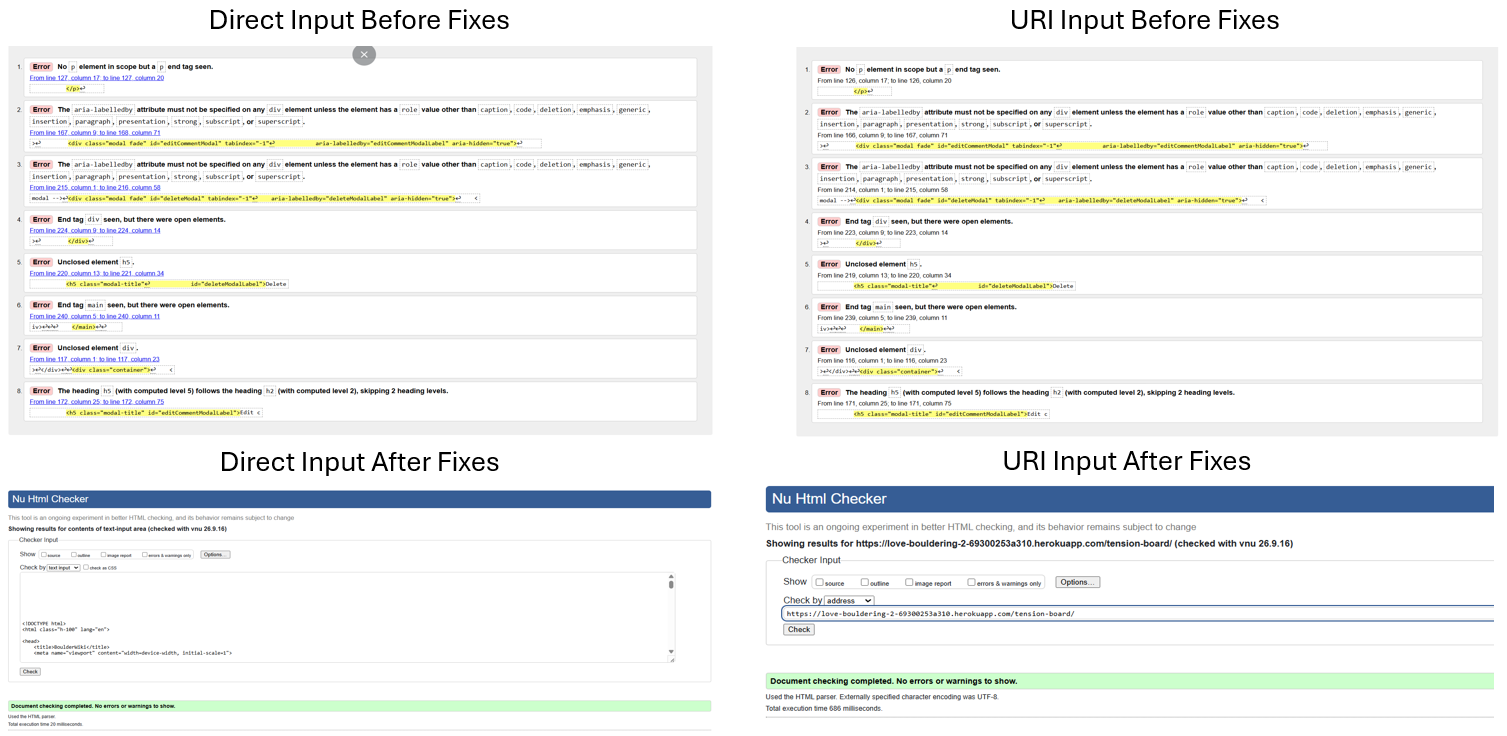
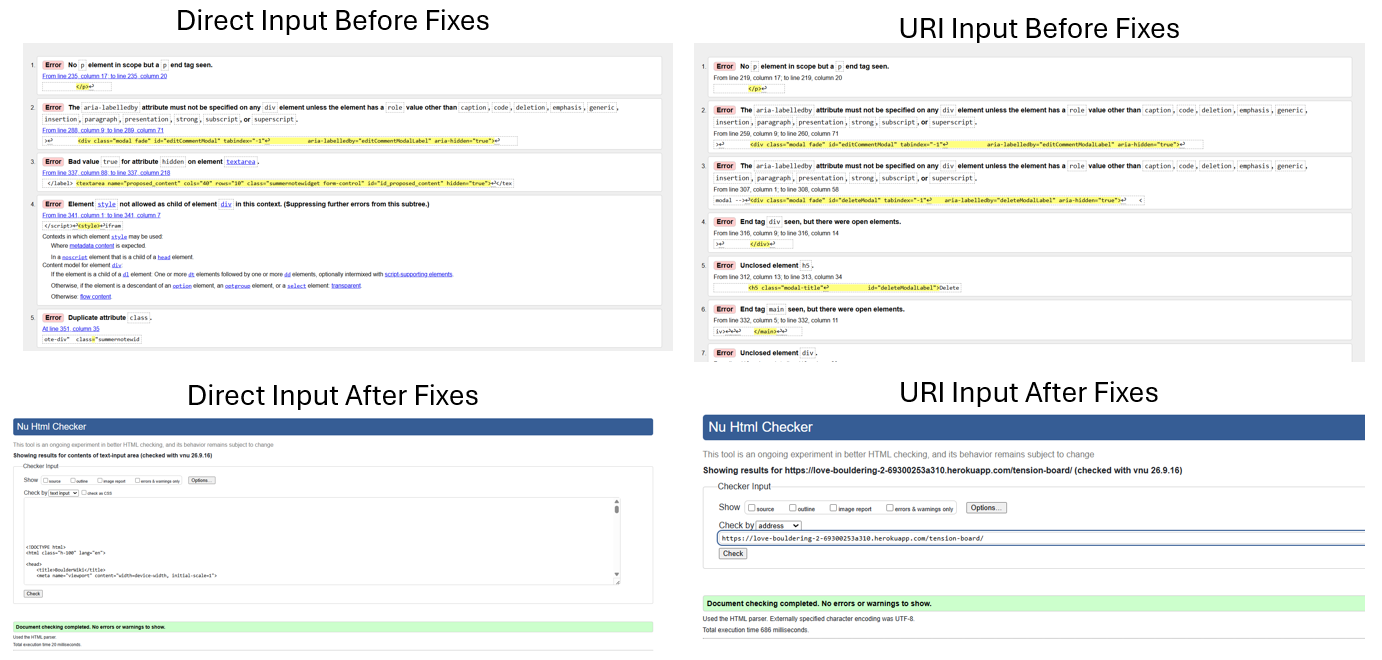
Remove bold tags in signup.html

Changed region(s): [[0.0, 0.0909, 0.9957, 1.0], [0.1245, 0.0, 0.3423, 0.0909], [0.6534, 0.0, 0.8712, 0.0606]]

diff --git a/templates/account/signup.html b/templates/account/signup.html
@@ -54,7 +54,7 @@
               <li>Use at least 8 characters.</li>
               <li>Use letters and other characters; the password cannot be entirely numeric.</li>
               <li>Numbers are allowed but are not required.</li>
-              <li>Special characters such as <bold>$</bold>, <bold>@</bold>, <bold>!</bold>, <bold>#</bold>, <bold>%</bold>, <bold>&</bold>, are allowed but are not required.</li>
+              <li>Special characters such as $, %, !, and @ are allowed but are not required.</li>
             </ul>
           </div>
           {{ form.password1.errors }}

diff --git a/TESTING.md b/TESTING.md
@@ -204,3 +204,104 @@ The following code was implemented in ```templates\account\signup.html``` to ach
 
 Some JavaScript and other code was also added. The exact implementation details can be found by looking at the commit history of this project. 
 
+### Article Details Page
+
+![Article Details Page Validation](/documentation/testing/html-css-js-validation/html-validation/article-details.png)
+
+The errors in the image above were fixed by replacing the SummernoteWidget() with HTML5SummernoteWidget() in the SuggestionForm class in article/forms.py. The exact implementation details of these changes can be found by looking at the commit history of this project. 
+
+## CSS3 Validation
+
+The CSS3 files for the deployed website were tested using the [W3C CSS Validator](https://jigsaw.w3.org/css-validator/)
+
+### ```style.css```
+
+![style.css validation](/documentation/testing/html-css-js-validation/css-validation/style.png)
+
+The validator returned two warnings before implementing the fixes. These warnings were resolved by removing the two vendor extension styles. 
+
+### ```adming_comments.css```
+
+![adming_comments.css validation](/documentation/testing/html-css-js-validation/css-validation/admin-comments.png)
+
+The validator returned two warnings before implementing the fixes. These warnings were resolved by removing the two deprecated styles. 
+
+## JavaScript Validation
+
+The JavaScript files for the deployed website were tested using [JSHint](https://jshint.com/)
+
+For validation purposes:
+
+ - ```/* jshint esversion: 11 */``` was added to line in all JavaScript files
+
+ - ```/* global bootstrap */``` was added to line 2 of JavaScript files containing Bootstrap components
+
+ No errors were found during validation testing.
+
+### admin_comments.js
+
+![admin_comments.js validation](/documentation/testing/html-css-js-validation/js-validation/admin_comments.png)
+
+### admin_posts.js
+
+![admin_posts.js validation](/documentation/testing/html-css-js-validation/js-validation/admin_posts.png)
+
+### comments.js
+
+![comments.js validation](/documentation/testing/html-css-js-validation/js-validation/comments.png)
+
+### my_posts.js
+
+![my_posts.js validation](/documentation/testing/html-css-js-validation/js-validation/my_posts.png)
+
+## Python Validation Testing 
+
+
+
+## Responsiveness Testing
+
+BoulderWiki was manually tested for responsiveness on all relevant device viewports using the Chrome dev tools. The viewports that were tested were: laptops and larger devices, tablets and mobiles. 
+
+I've tested my deployed project to check for responsiveness issues and tested all pages that a user would visit.
+
+On laptops and larger devices, the homepage adopts a three-column layout, while on tablets (in portrait mode) and mobiles the homepage adopts a single column layout. The single column layout makes the homepage easier to read on narrower screens. 
+
+The screenshots for mobile were taken on my phone - a Samsung Galaxy S22 - this would be approximately 350 x 750 in the Chrome dev tools
+
+The following viewport dimensions have been chosen for each device:
+
+- Laptop - 1440 x 830
+- Tablet - 750 x 830 
+- Mobile - Samsung Galaxy S22
+
+| Page | Mobile | Tablet | Laptops | Result |
+| --- | --- | --- | --- | --- |
+| Homepage | ![screenshot](/documentation/testing/responsiveness/mobile/homepage.jpg) | ![screenshot](/documentation/testing/responsiveness/tablets//homepage.png) | ![screenshot](/documentation/testing/responsiveness/laptops/homepage.png) | Works as expected |
+| About  | ![screenshot](/documentation/testing/responsiveness/mobile/about.jpg) | ![screenshot](/documentation/testing/responsiveness/tablets/about.png) | ![screenshot](/documentation/testing/responsiveness/laptops/about.png) | Works as expected |
+| Create Article | ![screenshot](/documentation/testing/responsiveness/mobile/create-article.jpg) | ![screenshot](/documentation/testing/responsiveness/tablets/create-article.png) | ![screenshot](/documentation/testing/responsiveness/laptops/create-article.png) | Works as expected |
+| Manage Articles  | ![screenshot](/documentation/testing/responsiveness/mobile/manage-articles.jpg) | ![screenshot](/documentation/testing/responsiveness/tablets/manage-articles.png) | ![screenshot](/documentation/testing/responsiveness/laptops/manage-articles.png) | Works as expected |
+| Categories | ![screenshot](/documentation/testing/responsiveness/mobile/categories.jpg) | ![screenshot](/documentation/testing/responsiveness/tablets/categories.png) | ![screenshot](/documentation/testing/responsiveness/laptops/categories.png) | Works as expected |
+| Suggestions | ![screenshot](/documentation/testing/responsiveness/mobile/suggestions.jpg) | ![screenshot](/documentation/testing/responsiveness/tablets/suggestions.png) | ![screenshot](/documentation/testing/responsiveness/laptops/suggestions.png) | Works as expected |
+| Article Details | ![screenshot](/documentation/testing/responsiveness/mobile/article-details.jpg) | ![screenshot](/documentation/testing/responsiveness/tablets/article-details.png) | ![screenshot](/documentation/testing/responsiveness/laptops/article-details.png) | Works as expected |
+| Registration | ![screenshot](/documentation/testing/responsiveness/mobile/registration.jpg) | ![screenshot](/documentation/testing/responsiveness/tablets/registration.png) | ![screenshot](/documentation/testing/responsiveness/laptops/registration.png) | Works as expected |
+| Login | ![screenshot](/documentation/testing/responsiveness/mobile/login.jpg) | ![screenshot](/documentation/testing/responsiveness/tablets/login.png) | ![screenshot](/documentation/testing/responsiveness/laptops/login.png) | Works as expected |
+
+Overall, the website worked well on all devices. No layout issues were encountered, unwanted overflow or unwanted spacing was encountered during device responsiveness testing. 
+
+## Cross-Browser Compatibility Testing
+
+
+I've tested my deployed project on multiple browsers to check for compatibility issues.
+
+| Page | Chrome | Firefox | Microsoft Edge | Result |
+| --- | --- | --- | --- | --- |
+| Homepage | ![screenshot](/documentation/testing/cross-browser-compatibility/chrome/homepage.png) | ![screenshot](/documentation/testing/cross-browser-compatibility/firefox/homepage.png) | ![screenshot](/documentation/testing/cross-browser-compatibility/microsoft-edge/homepage.png) | Works as expected |
+| Article Details | ![screenshot](/documentation/testing/cross-browser-compatibility/chrome/article-details.png) | ![screenshot](/documentation/testing/cross-browser-compatibility/firefox/article-details.png) | ![screenshot](/documentation/testing/cross-browser-compatibility/microsoft-edge/article-details.png) | Works as expected |
+| About | ![screenshot](/documentation/testing/cross-browser-compatibility/chrome/about.png) | ![screenshot](/documentation/testing/cross-browser-compatibility/firefox/about.png) | ![screenshot](/documentation/testing/cross-browser-compatibility/microsoft-edge//about.png) | Works as expected |
+| Create Article | ![screenshot](/documentation/testing/cross-browser-compatibility/chrome/create-article.png) | ![screenshot](/documentation/testing/cross-browser-compatibility/firefox/create-article.png) | ![screenshot](/documentation/testing/cross-browser-compatibility/microsoft-edge/create-article.png) | Works as expected |
+| Manage Articles | ![screenshot](/documentation/testing/cross-browser-compatibility/chrome/manage-articles.png) | ![screenshot](/documentation/testing/cross-browser-compatibility/firefox/manage-articles.png) | ![screenshot](/documentation/testing/cross-browser-compatibility/microsoft-edge/manage-articles.png) | Works as expected |
+| Categories | ![screenshot](/documentation/testing/cross-browser-compatibility/chrome/categories.png) | ![screenshot](/documentation/testing/cross-browser-compatibility/firefox/categories.png) | ![screenshot](/documentation/testing/cross-browser-compatibility/microsoft-edge/categories.png) | Works as expected |
+| Suggestions | ![screenshot](/documentation/testing/cross-browser-compatibility/chrome/suggestions.png) | ![screenshot](/documentation/testing/cross-browser-compatibility/firefox/suggestions.png) | ![screenshot](/documentation/testing/cross-browser-compatibility/microsoft-edge/suggestions.png) | Works as expected |
+| Login | ![screenshot](/documentation/testing/cross-browser-compatibility/chrome/login.png) | ![screenshot](/documentation/testing/cross-browser-compatibility/firefox/login.png) | ![screenshot](/documentation/testing/cross-browser-compatibility/microsoft-edge/login.png) | Works as expected |
+| Registration | ![screenshot](/documentation/testing/cross-browser-compatibility/chrome/registration.png) | ![screenshot](/documentation/testing/cross-browser-compatibility/firefox/registration.png) | ![screenshot](/documentation/testing/cross-browser-compatibility/microsoft-edge/registration.png) | Works as expected |
+

diff --git a/README.md b/README.md
@@ -3651,3 +3651,11 @@ AI was used to:
 | [![badge](https://img.shields.io/badge/Copilot-grey?logo=githubcopilot&logoColor=##000000)](https://github.com/copilot) | Help debug, troubleshoot, and explain things. |
 
 ## Credits
+
+- W3Schools
+- Code Institute
+- Tim Nelson Markdown Builder
+- JSHint
+- W3C HTML Validator
+- W3C CSS Validator
+- 
